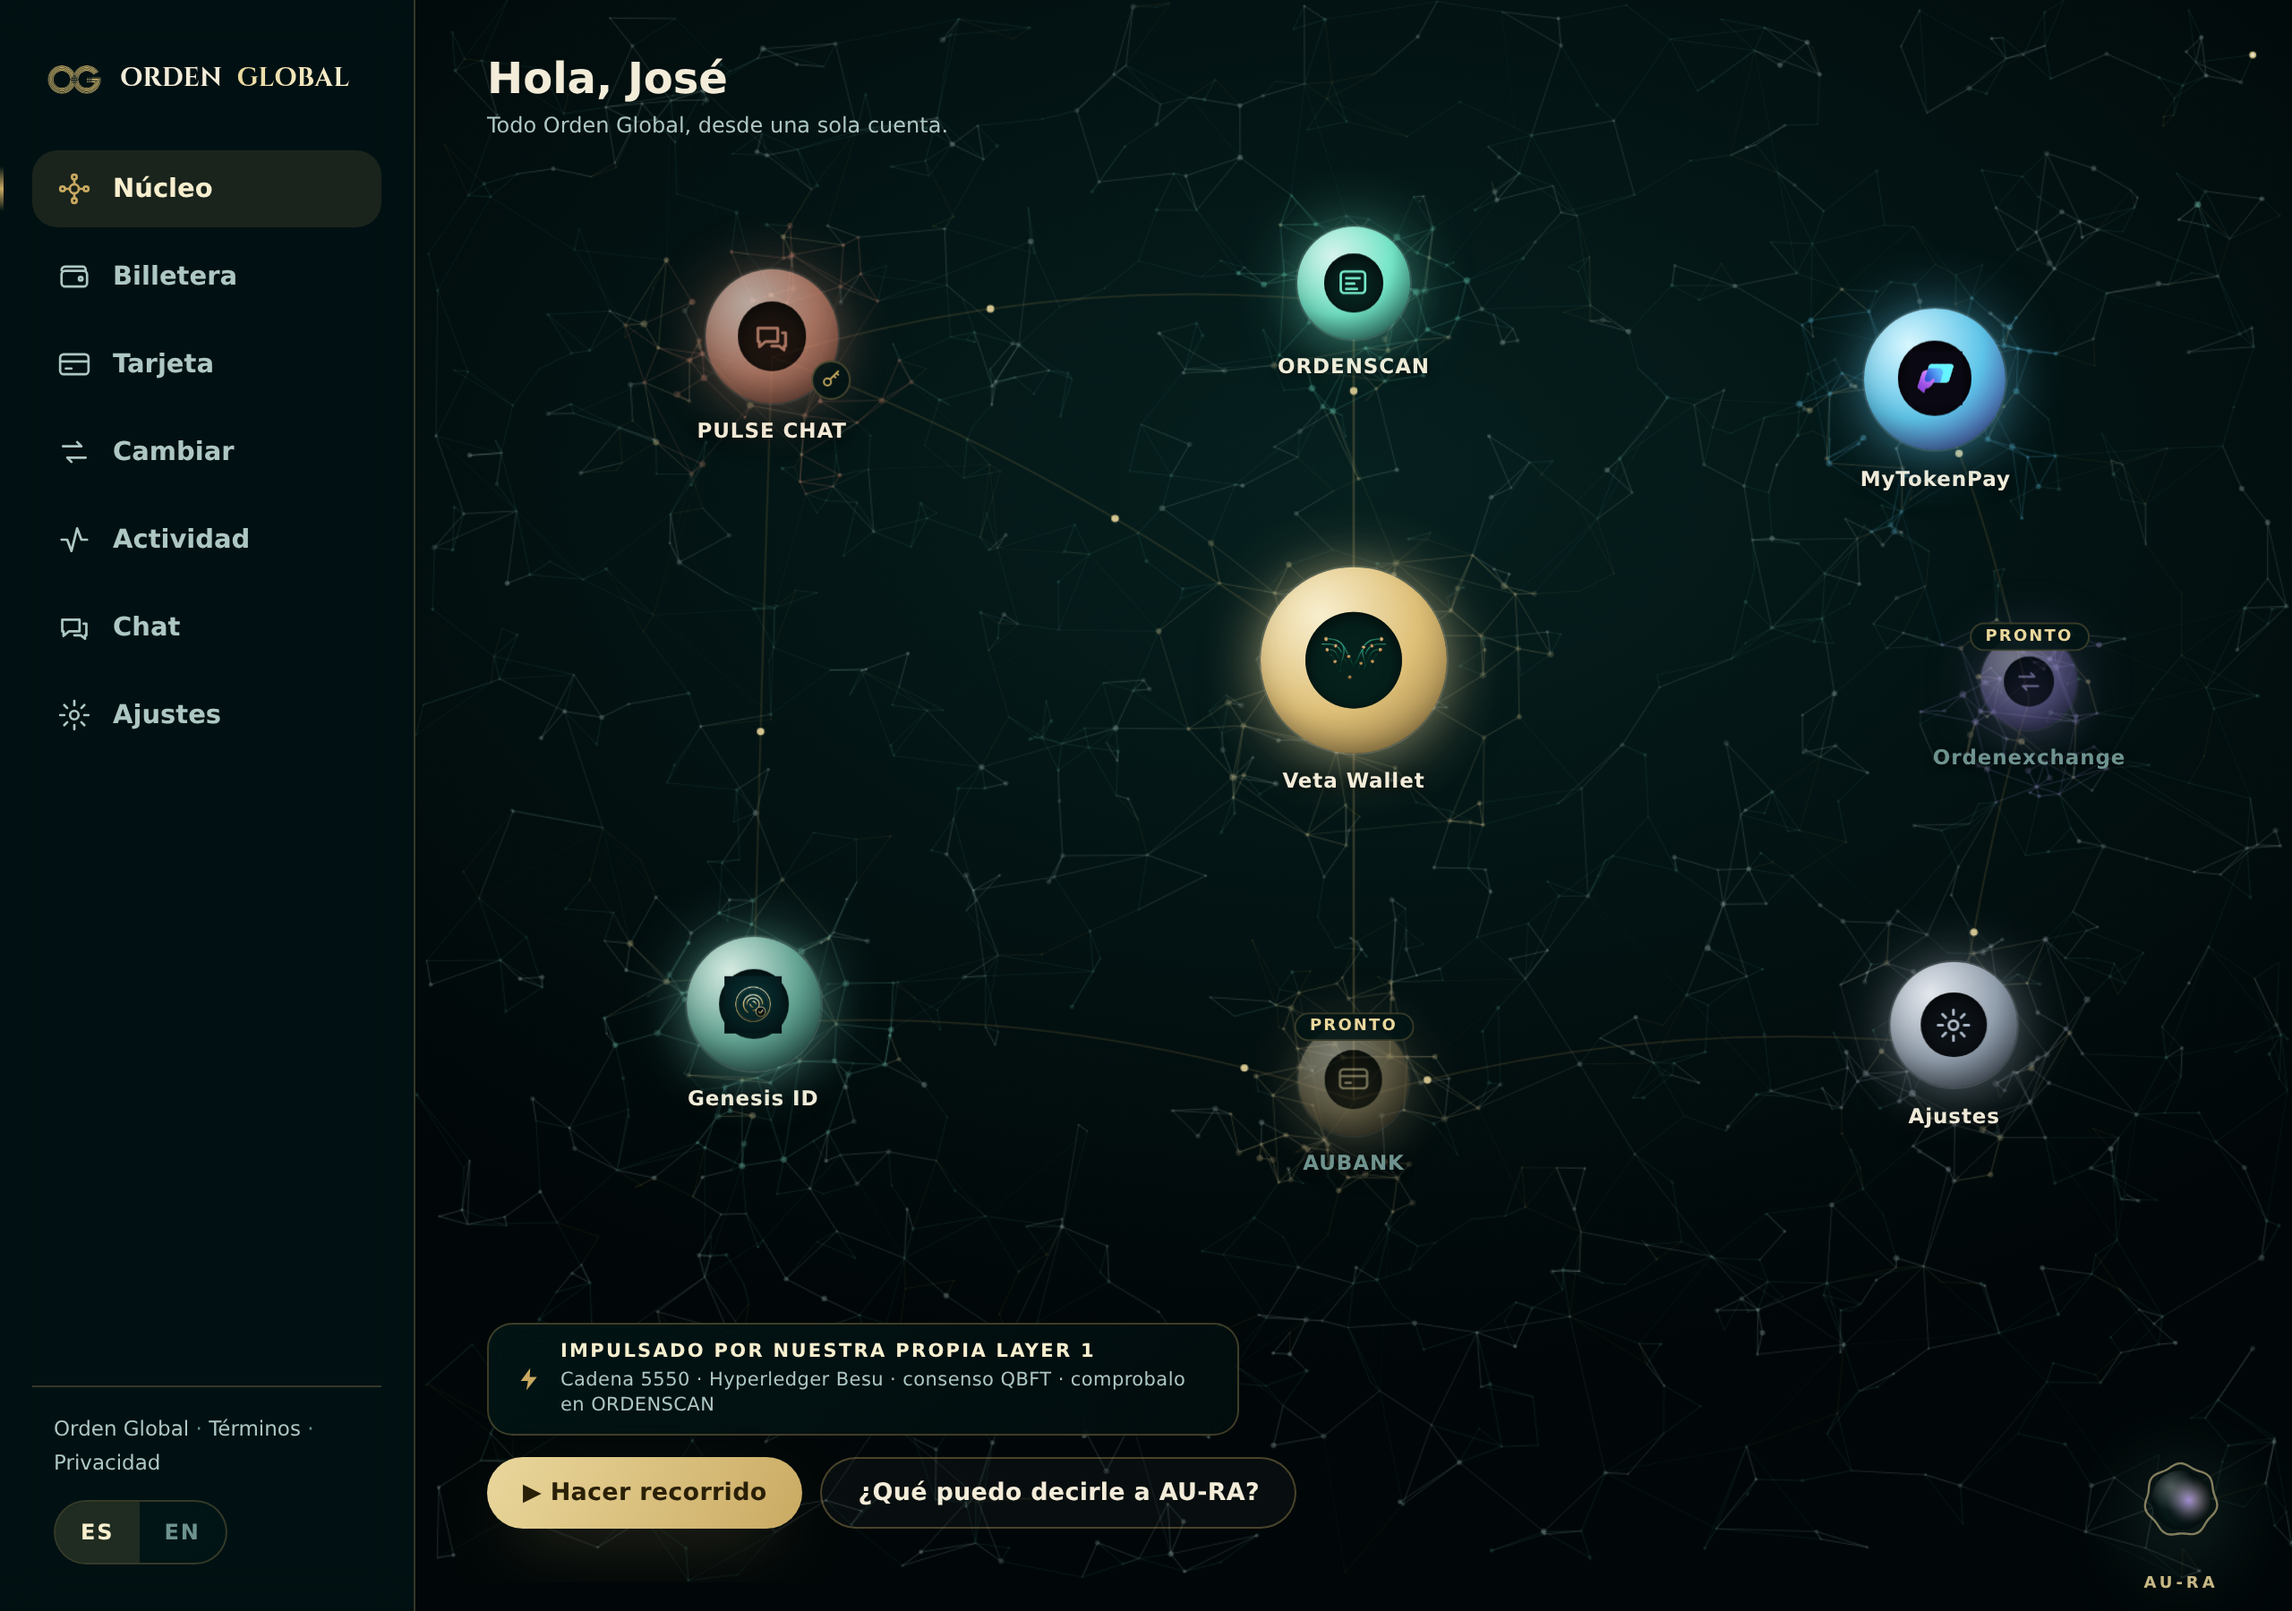
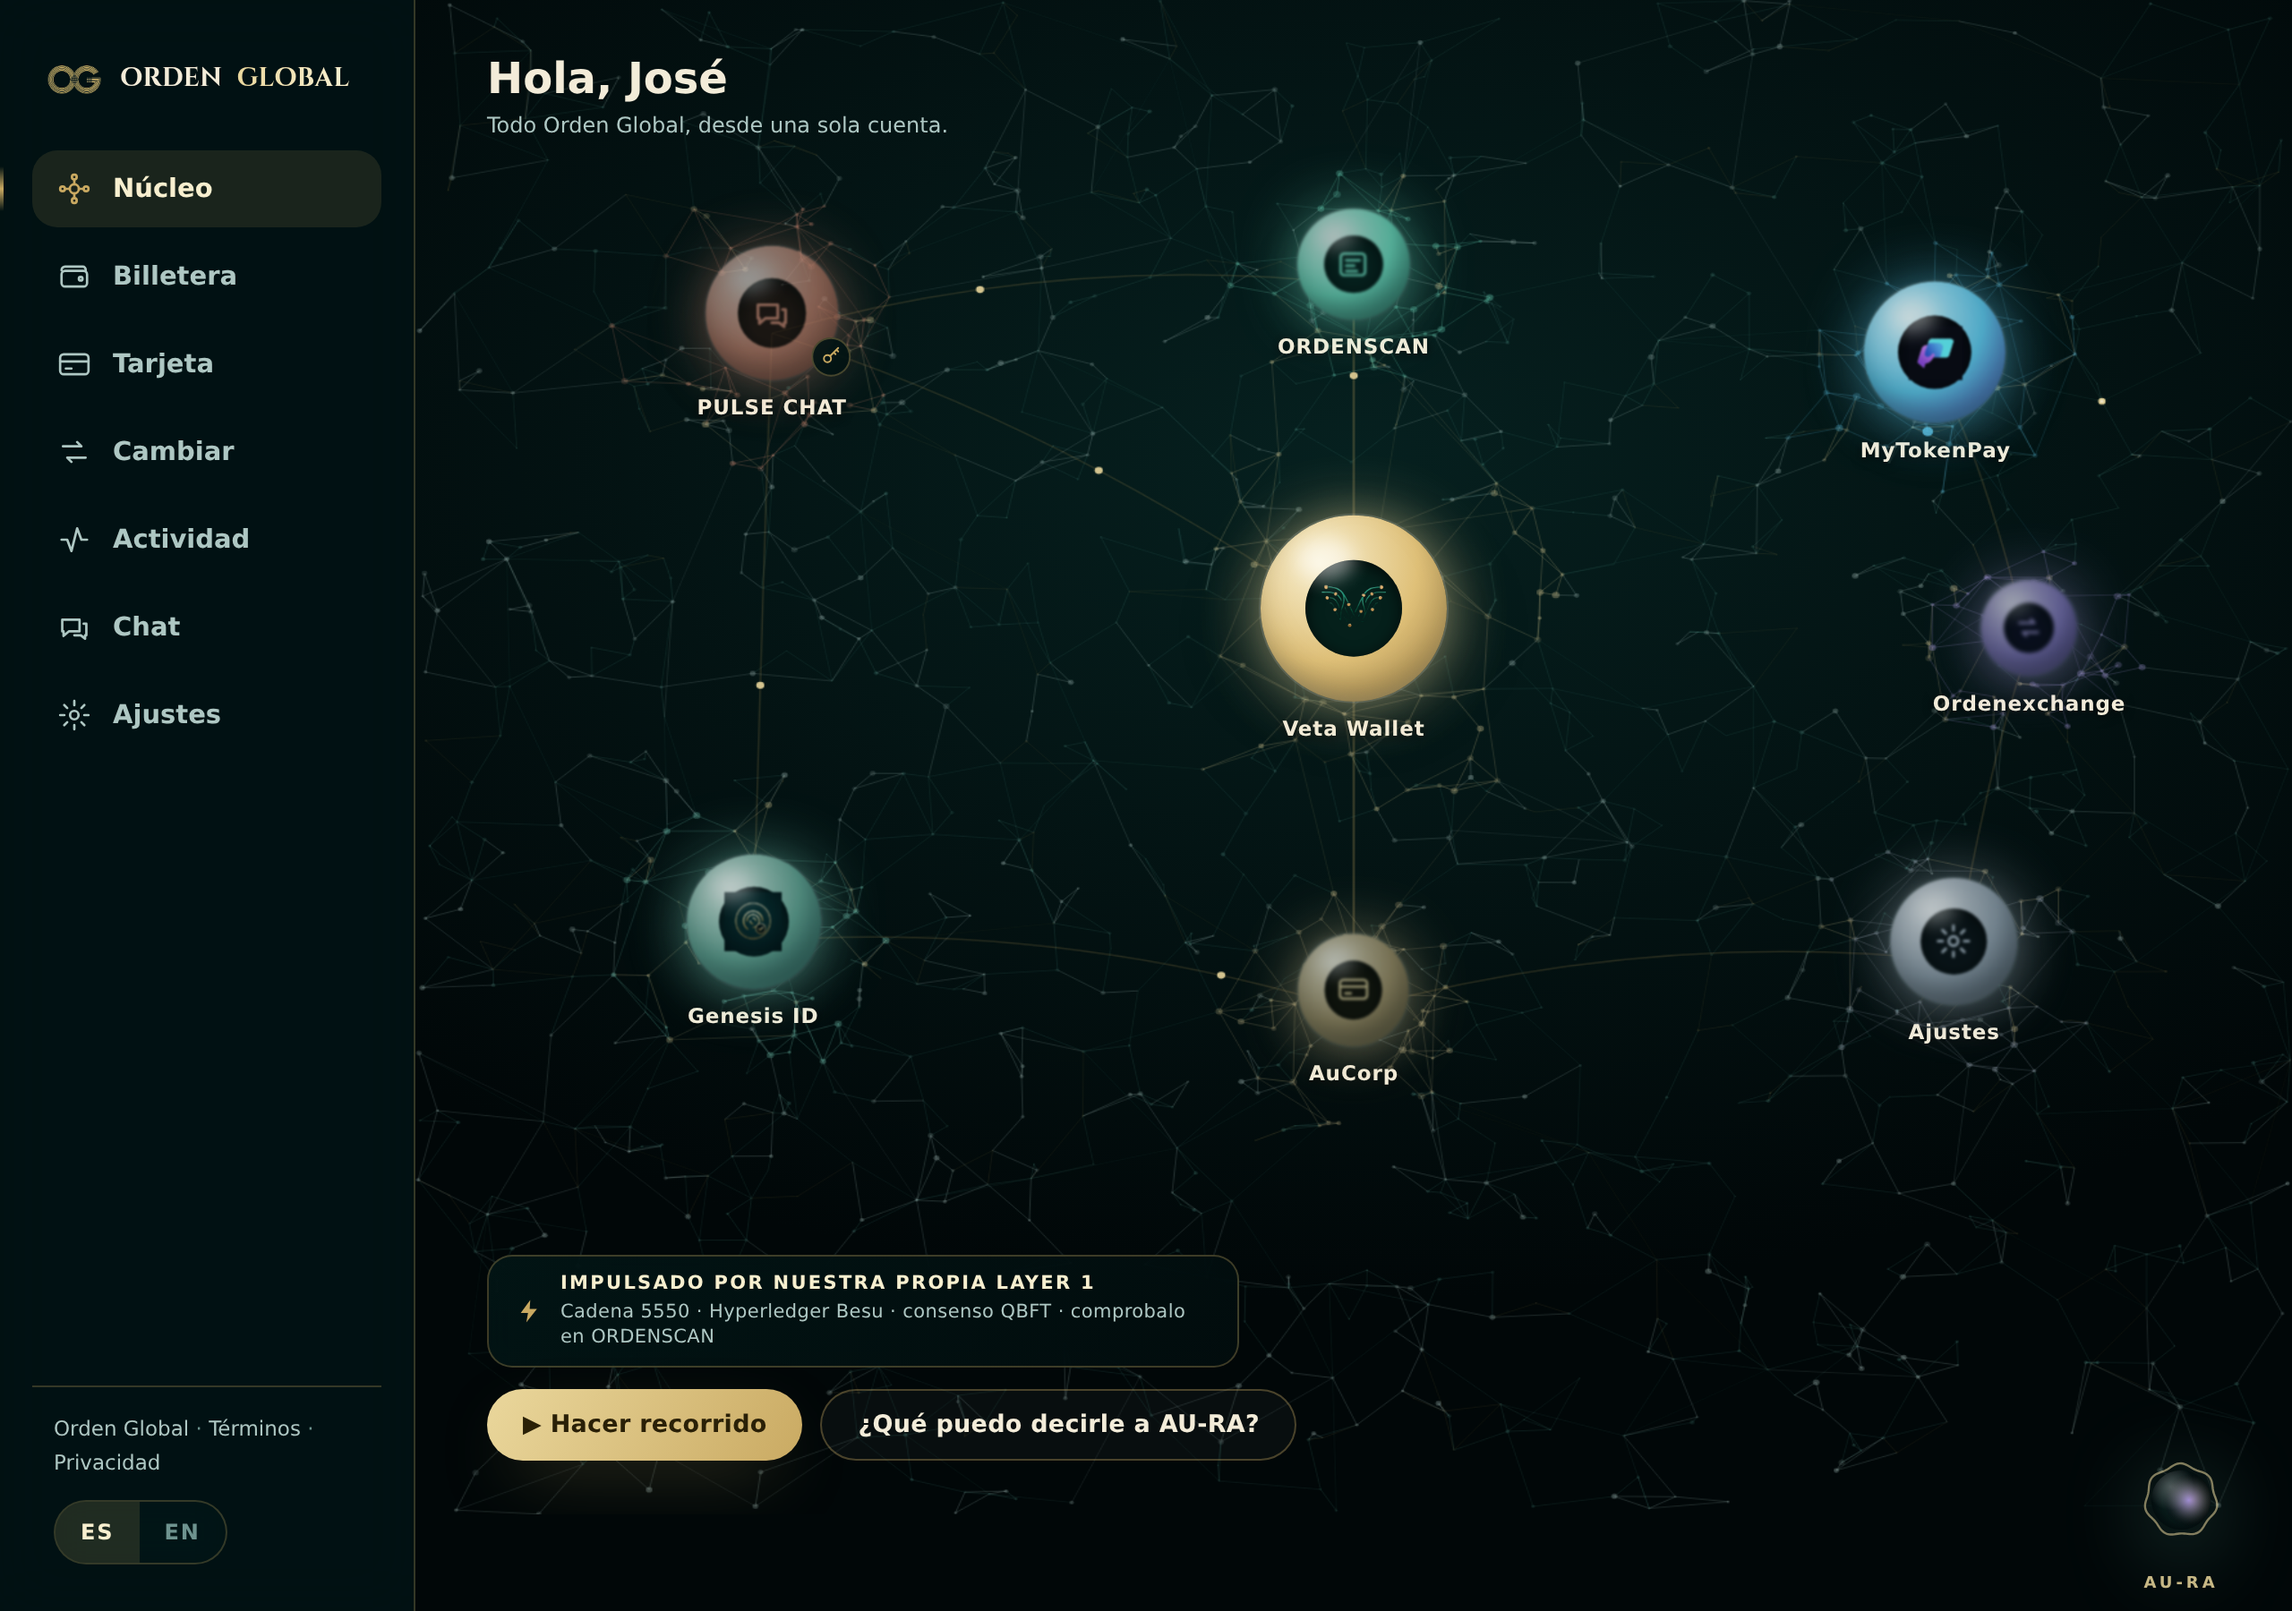
AuCorp: prueba de la banca en un navegador de verdad, y el acuse que se borraba
apps-web/probar-banca.mjs — levanta el API DE VERDAD contra un Mongo en
memoria, con Genesis fingido (fingido solo Genesis, que es de otra casa), sirve
la web tal como se despliega y hace el recorrido entero con el ratón: entrar
con la llave de la wallet, abrir cuentas, ver el saldo que acreditó
operaciones, guardar destinos, transferir, cotizar, pedir un retiro, y el
teléfono.

Es lo que ninguna otra prueba puede cazar: que la pantalla y el API se
entiendan. Los dos pueden estar perfectos por separado y no hablarse.

Y encontró un fallo real a la primera: `ir()` limpiaba el aviso, así que el
acuse de una transferencia se borraba en el mismo gesto que lo mostraba. El
dinero salía bien y la persona no veía ni una palabra confirmándolo — el peor
momento posible para dejar a alguien sin respuesta. Ahora el aviso viaja CON el
cambio de pantalla: pertenece a la pantalla a la que se llega, no a la que se
deja.

Dos trampas del arnés quedan anotadas en el propio archivo, porque el síntoma
no se parece en nada a la causa y costaron un rato:

  · Ir de /banca/ a /banca/#sso=… es un cambio de HASH: el navegador no recarga
    el documento, el script no vuelve a correr y la llave no se lee nunca.
  · Interceptar el HTML con page.route para ajustar la CSP deja colgadas para
    siempre las peticiones que hace la propia página. La pantalla se queda en
    «Entrando…» y no hay ni un error en consola. Se ajusta sirviendo el HTML ya
[…]

diff --git a/apps-web/aucorp/banca/app.js b/apps-web/aucorp/banca/app.js
@@ -584,7 +584,19 @@ const BANCA = (() => {
     }
   }
 
-  const ir = (v) => { vista = v; recado = null; datos.limite = null; sellos = {}; pintar(); cargar(); };
+  /* Cambiar de pantalla limpia el aviso viejo… salvo el que se trae puesto.
+     Antes no era así y el acuse de una transferencia se borraba en el mismo
+     gesto que lo mostraba: el dinero salía bien y la persona no veía ni una
+     palabra confirmándolo. El aviso pertenece a la pantalla a la que se LLEGA,
+     no a la que se deja. */
+  const ir = (v, mensaje = null, malo = false) => {
+    vista = v;
+    recado = mensaje ? { texto: mensaje, malo } : null;
+    datos.limite = null;
+    sellos = {};
+    pintar();
+    cargar();
+  };
 
   // ── los formularios ───────────────────────────────────────────────────────
   const valores = (form) => {
@@ -607,13 +619,11 @@ const BANCA = (() => {
     try {
       if (nombre === 'nueva') {
         await pedir('/cuentas', { metodo: 'POST', cuerpo: { moneda: v.moneda } });
-        avisar(`Tu cuenta en ${v.moneda} está abierta.`);
-        return ir('cuentas');
+        return ir('cuentas', `Tu cuenta en ${v.moneda} está abierta.`);
       }
       if (nombre === 'destino') {
         await pedir('/beneficiarios', { metodo: 'POST', cuerpo: v });
-        avisar('Destino guardado.');
-        return ir('destinos');
+        return ir('destinos', 'Destino guardado.');
       }
       if (nombre === 'transferir') {
         const b = (datos.beneficiarios || []).find((x) => x.id === v.beneficiario);
@@ -623,24 +633,22 @@ const BANCA = (() => {
         // El sello se quema DESPUÉS de que salió bien: si hubiera fallado, el
         // reintento tiene que traer el mismo.
         delete sellos.transferir;
-        avisar(`Enviaste ${r.monto.texto} ${r.moneda} a ${b.alias}.`);
-        return ir('cuentas');
+        return ir('cuentas', `Enviaste ${r.monto.texto} ${r.moneda} a ${b.alias}.`);
       }
       if (nombre === 'cambiar') {
         const r = await pedir('/movimientos/cambiar', { metodo: 'POST', cuerpo: {
           ref: selloDe('cambiar'), de: v.de, a: v.a, monto: v.monto } });
         delete sellos.cambiar;
-        avisar(`Cambiaste ${r.entrega.texto} ${r.entrega.moneda} por ${r.recibe.texto} ${r.recibe.moneda}.`);
-        return ir('cuentas');
+        return ir('cuentas',
+          `Cambiaste ${r.entrega.texto} ${r.entrega.moneda} por ${r.recibe.texto} ${r.recibe.moneda}.`);
       }
       if (nombre === 'retirar') {
         if (!v.beneficiario) throw new Error('Elegí a qué cuenta mandarlo.');
         const r = await pedir('/solicitudes/retiro', { metodo: 'POST', cuerpo: {
           ref: selloDe('retirar'), moneda: v.moneda, monto: v.monto, beneficiario: v.beneficiario } });
         delete sellos.retirar;
-        avisar(`Pediste retirar ${r.solicitud.neto.texto} ${r.solicitud.moneda}. `
+        return ir('mover', `Pediste retirar ${r.solicitud.neto.texto} ${r.solicitud.moneda}. `
           + 'El dinero quedó apartado hasta que se pague.');
-        return ir('mover');
       }
     } catch (e) {
       // El límite trae sus números: se los enseñamos, que son suyos.
@@ -695,7 +703,7 @@ const BANCA = (() => {
       // hecha. Se pregunta.
       if (!confirm('¿Quitar este destino?')) return;
       pedir('/beneficiarios/' + encodeURIComponent(t.dataset.borrar), { metodo: 'DELETE' })
-        .then(() => { avisar('Destino quitado.'); ir('destinos'); })
+        .then(() => ir('destinos', 'Destino quitado.'))
         .catch((e) => avisar(e.message, true));
     }
   });

diff --git a/apps-web/veta-wallet/app.js b/apps-web/veta-wallet/app.js
@@ -41,8 +41,16 @@ const VETA = (() => {
      manda a /#sso-aucorp y volverConLlave devuelve a la persona con su llave.
      Apunta a /banca y no a la portada: quien llega desde el Nucleo va a SUS
      cuentas, no a leer quienes somos. La portada sigue siendo la puerta de
-     quien llega de fuera. */
-  const URL_AUCORP = window.AUC_URL || 'https://www.aucorp.io/banca';
+     quien llega de fuera.
+
+     Y apunta al dominio de AMPLIFY, no a www.aucorp.io, porque hoy ese
+     dominio todavia sirve el WordPress viejo — /banca alli redirige a una
+     pagina de servicios y la persona acabaria en cualquier sitio menos en sus
+     cuentas. Es la misma situacion que MyTokenPay y se resuelve igual: cuando
+     el dominio apunte a la app de Amplify, esta linea vuelve a
+     'https://www.aucorp.io/banca' y nada mas cambia. Mientras tanto, mandar a
+     la gente a una puerta que no existe seria peor que la URL fea. */
+  const URL_AUCORP = window.AUC_URL || 'https://main.d2e55u6ls6v9xt.amplifyapp.com/banca';
 
   const $ = s => document.querySelector(s);
   const esc = s => String(s == null ? '' : s).replace(/[&<>"']/g, c =>
